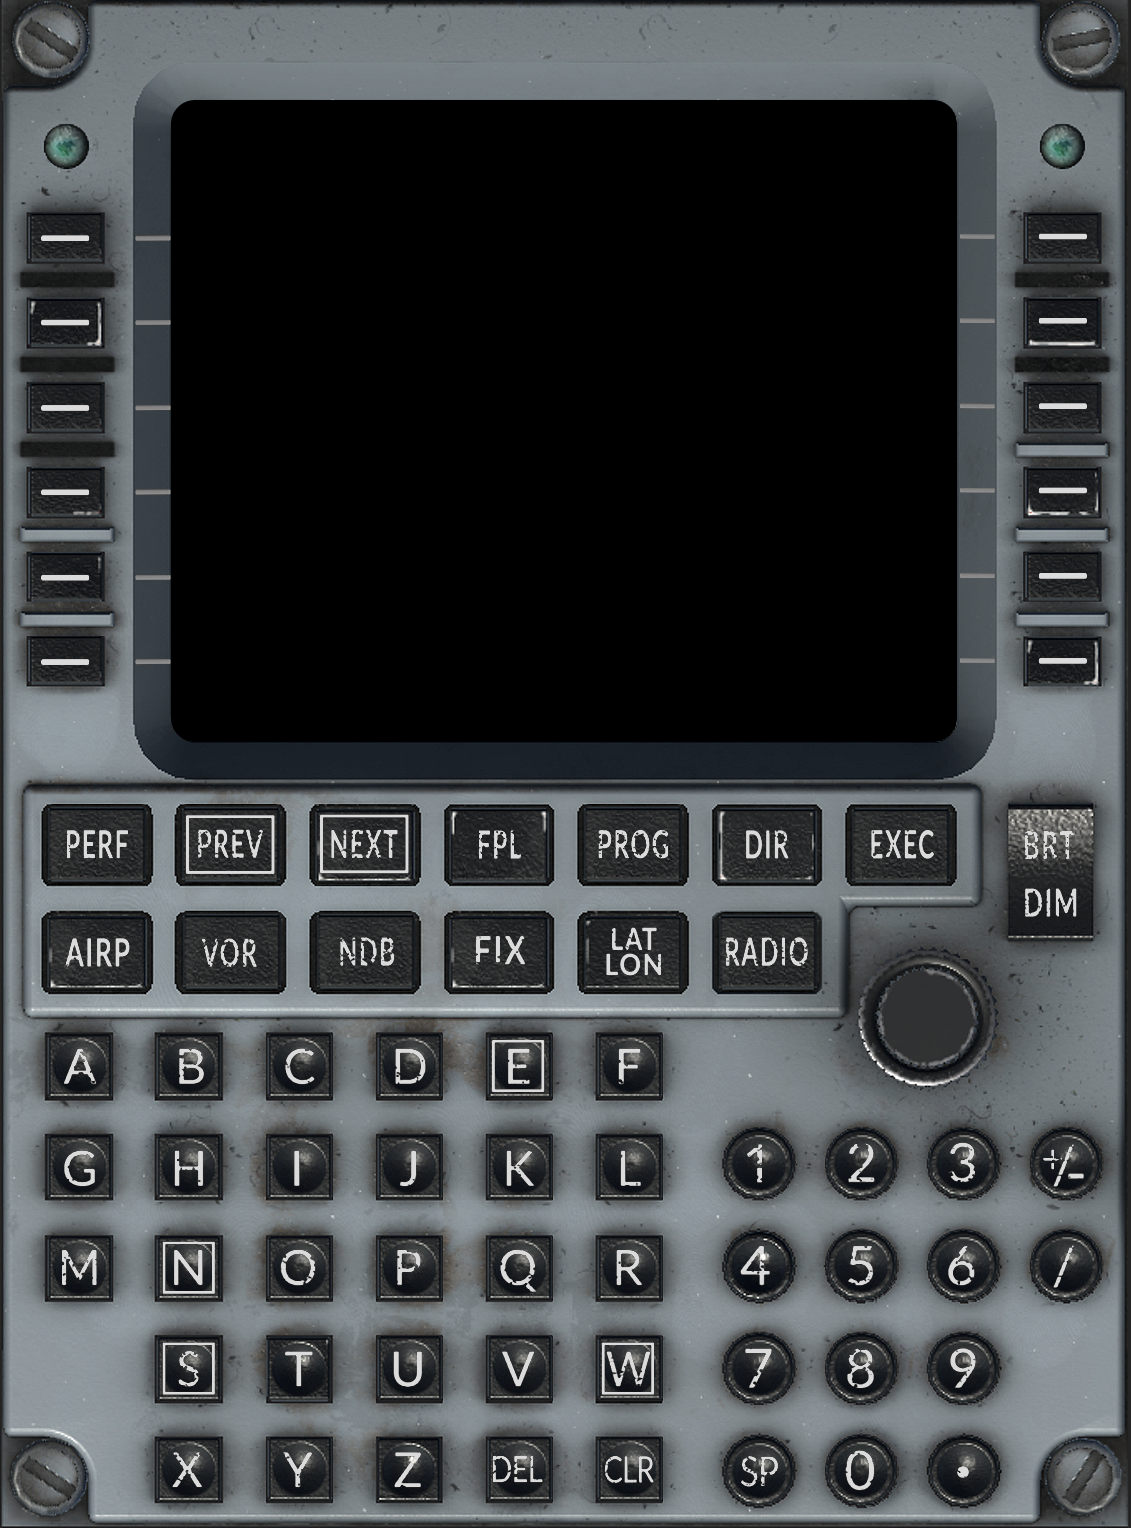
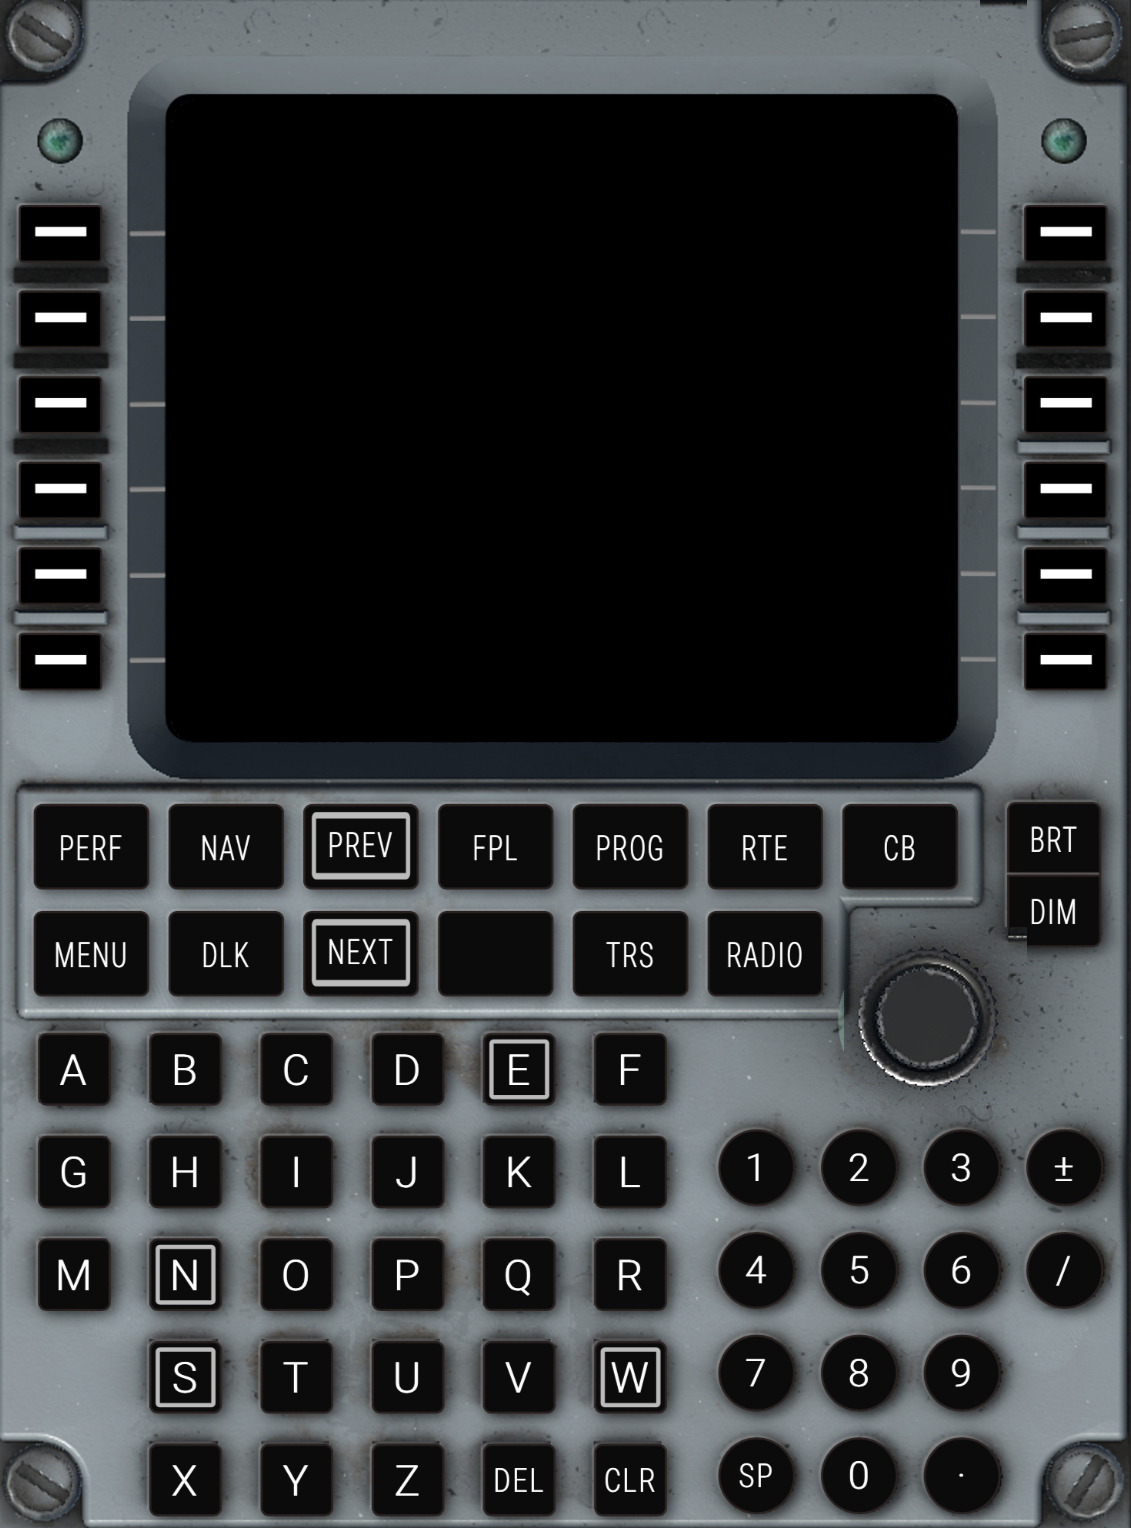
Re-align CDU overlays to updated chassis image

Changed region(s): [[0.0, 0.0, 1.0, 1.0], [0.8355, 0.3076, 0.8665, 0.3384]]

diff --git a/frontend/src/cdu/CduEmulator.jsx b/frontend/src/cdu/CduEmulator.jsx
@@ -126,19 +126,22 @@ function CduPackLine({ pack, tight }) {
 
 // Left/right LSK row y-centers as % of the whole chassis image height —
 // eyeballed from the image, evenly spaced starting just below the screen.
-const LSK_ROW_Y = [15.6, 21.0, 26.4, 31.8, 37.2, 42.6];
+const LSK_ROW_Y = [14.8, 20.3, 25.7, 31.1, 36.5, 42.0];
 
 // Function-key rows (PERF..CB / MENU..RADIO) and the BRT/DIM stack, in the
 // same percent-of-chassis space as the keypad grid below — measured off the
 // WebFMC reference screenshots, whose row pitch matches ALPHA_ROW_Y's.
-const FUNC_ROW_Y = [56.4, 63.1];
-const FUNC_COL_X = [10.0, 21.5, 32.8, 44.2, 55.6, 67.0, 78.5];
-const BRT_DIM_X = 91.3;
+const FUNC_ROW_Y = [54.0, 60.8];
+const FUNC_COL_X = [8.0, 19.9, 31.7, 43.7, 55.6, 67.6, 79.4];
+// BRT/DIM sit in their own tighter stack, not on the two function rows.
+const BRT_DIM_X = 93.1;
+const BRT_Y = 53.6;
+const DIM_Y = 58.1;
 
 // Alpha/numeric keypad grid — also eyeballed as % of chassis width/height.
-const ALPHA_ROW_Y = [70.0, 76.6, 83.2, 89.8, 96.4];
-const ALPHA_COL_X = [7.1, 16.8, 26.5, 36.3, 46.0, 55.8];
-const NUM_COL_X = [67.5, 76.1, 84.7, 93.3];
+const ALPHA_ROW_Y = [68.2, 74.7, 81.3, 87.8, 94.4];
+const ALPHA_COL_X = [6.5, 16.3, 26.1, 35.9, 45.7, 55.5];
+const NUM_COL_X = [66.9, 75.9, 84.8, 93.7];
 
 export default function CduEmulator({
   title = "PERF TAKEOFF",
@@ -355,8 +358,8 @@ export default function CduEmulator({
         ))}
 
         {/* ── BRT/DIM — image's own labels already match, just a transparent hit target ── */}
-        <button className="cdu-key cdu-key-func" style={{ top: `${FUNC_ROW_Y[0]}%`, left: `${BRT_DIM_X}%` }} aria-label="BRT" onClick={() => {}} />
-        <button className="cdu-key cdu-key-func" style={{ top: `${FUNC_ROW_Y[1]}%`, left: `${BRT_DIM_X}%` }} aria-label="DIM" onClick={() => {}} />
+        <button className="cdu-key cdu-key-func cdu-key-brt" style={{ top: `${BRT_Y}%`, left: `${BRT_DIM_X}%` }} aria-label="BRT" onClick={() => {}} />
+        <button className="cdu-key cdu-key-func cdu-key-brt" style={{ top: `${DIM_Y}%`, left: `${BRT_DIM_X}%` }} aria-label="DIM" onClick={() => {}} />
 
         {/* ── Keypad — image already shows correct labels (A-Z, 0-9, DEL, CLR,
             +/-, /, SP, .), so these are transparent click targets only ── */}
@@ -432,7 +435,7 @@ const CDU_CSS = `
    type is sized in cqw = percent of THIS box's width, so it scales with the
    chassis instead of staying a fixed px size next to huge LSKs on an iPad. */
 .cdu-screen { container-type: inline-size;
-  position: absolute; left: 15.5%; top: 6.2%; width: 69%; height: 43.5%;
+  position: absolute; left: 15.0%; top: 6.1%; width: 69.4%; height: 41.1%;
   background: #050505; border-radius: 3px; padding: 4% 4%; box-sizing: border-box;
   display: flex; flex-direction: column; font-family: "Consolas","Menlo","DejaVu Sans Mono",monospace;
   overflow: hidden; }
@@ -494,6 +497,8 @@ const CDU_CSS = `
 .cdu-key-wide { width: 9%; }
 /* Function keys are wider and shorter than the round keypad buttons. */
 .cdu-key-func { width: 10%; height: 4.2%; }
+/* BRT and DIM are a tight stack — shorter so they don't overlap each other. */
+.cdu-key-brt { width: 8%; height: 3.4%; }
 .cdu-key:active { background: rgba(255,255,255,0.1); border-radius: 4px; }
 /* EXEC armed — a glow over the image's own (unlabelled) key. */
 .cdu-exec-active { background: rgba(60,255,140,0.18); border-radius: 4px;
